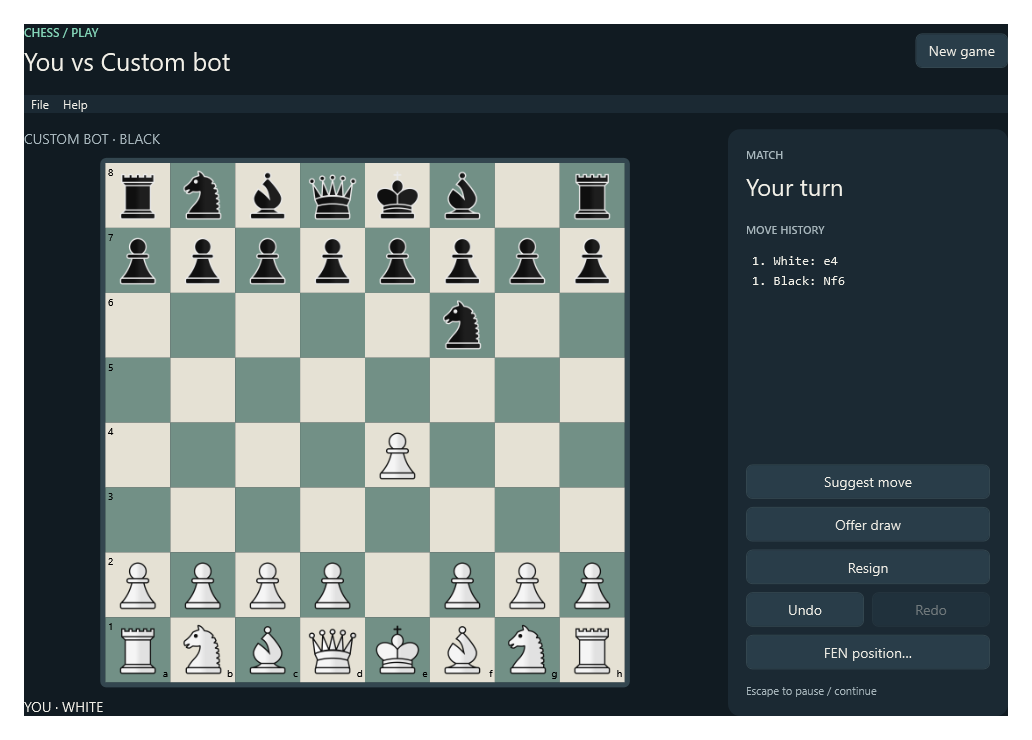
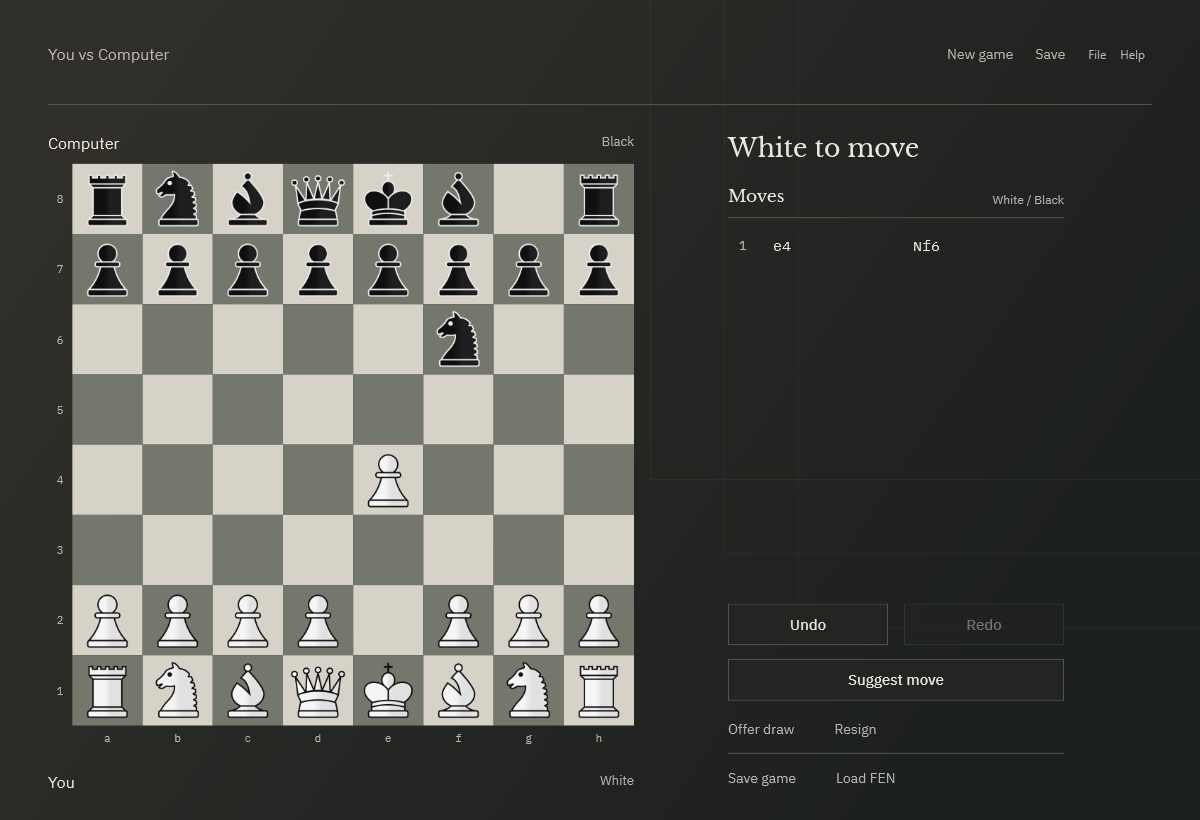
docs: document Tournament controls and update screenshots

diff --git a/docs/gameplay.md b/docs/gameplay.md
@@ -4,7 +4,7 @@
 
 ## Controls
 
-Choose **Play the bot** and a colour, or **Local two-player**, on the start screen.
+Choose **Computer** and a colour, or **Local two-player**, on the start screen.
 Bot mode automatically plays the opposite side and faces the board toward you.
 **Suggest move** recommends a move without applying it. **New game** returns to setup.
 
@@ -12,7 +12,7 @@ Bot mode automatically plays the opposite side and faces the board toward you.
 - Choose a queen, rook, bishop, or knight to complete promotion. Escape cannot cancel that choice.
 - Escape opens or closes the pause menu. A completed game stays on its result menu until rematch, exit, or undo.
 - **Undo** / **Ctrl+Z** takes back one action. **Redo** / **Ctrl+Y** / **Ctrl+Shift+Z** restores it. See [undo and redo](undo-redo.md) for result and history behavior.
-- The side panel shows whose turn it is, check status, and move history in SAN notation.
+- The side panel shows whose turn it is, check status, and a SAN scoresheet with White and Black columns for each full move.
 - **Resign** ends the game for the player whose turn it is. A bare opposing king cannot receive a win, so that case is a draw.
 - **Claim draw** appears when the current position qualifies for threefold repetition or the fifty-move rule.
 - To claim based on an intended move, check **Claim with next move**, then select that move, including a promotion choice if needed. A successful claim ends the game before the move is played. An invalid claim leaves the board unchanged; clear the checkbox to resume normal play.

diff --git a/docs/tournament-design.md b/docs/tournament-design.md
@@ -1,0 +1,24 @@
+# Tournament interface
+
+The Windows UI implements the approved [Figma C direction](https://www.figma.com/design/kZvgLU33gETM4Hn66bSyHx?node-id=4-1674).
+
+![Tournament setup](start-game.png)
+
+Setup pairs a plain opponent/colour form with the real starting board. The selected
+choice has a brass underline; the start action names the chosen side. Open saved
+game loads a complete save into that mode. A failed load leaves setup available.
+
+![Tournament game view](bot.png)
+
+Both screens use a warm-to-cool charcoal gradient and faint overlapping square outlines.
+The match header shows the matchup and navigation, with no CHESS wordmark. Board
+coordinates sit outside the squares and follow the selected orientation. Move history
+uses paired SAN columns, including positions that begin on Black's turn.
+
+The implementation keeps file/PGN tools in a compact File menu and makes draw/resume
+controls conditional. Actions scroll at smaller window sizes so history stays usable.
+Bot replies, suggestions, undo/redo, pause, and result menus retain their game behavior.
+
+Libre Baskerville, IBM Plex Sans, and IBM Plex Mono are embedded in the application.
+Their SIL Open Font License notices are included in `ChessUI/Assets/Fonts` and copied
+to published builds. The piece PNGs are the same source assets used in Figma.

diff --git a/docs/bot.md b/docs/bot.md
@@ -2,12 +2,13 @@
 
 ![Choose your mode and colour](start-game.png)
 
-Choose **Play the bot** on the start screen, select White or Black, and press
-**Start game**. The board faces your side. White moves first: if you choose Black,
+Choose **Computer** on the start screen, select White or Black, and press
+**Take White & play** or **Take Black & play**. The board faces your side. White moves first: if you choose Black,
 the bot opens automatically. After each of your moves, it searches and replies on
 its own. Human input is restricted to your turn. **Local two-player** keeps both
 sides under human control. **New game** returns to setup and discards the current
 session; save first if you want to keep it. Rematch keeps your mode and colour.
+**Open saved game** on setup resumes a complete save in the chosen mode.
 
 ![Automatic bot play and the match panel](bot.png)
 

diff --git a/docs/undo-redo.md b/docs/undo-redo.md
@@ -7,7 +7,7 @@ Use **Undo** or **Ctrl+Z** to take back the last action. Use **Redo**, **Ctrl+Y*
 and promotion. A resignation or draw claim is a separate action: undo reopens the same
 position before taking back any earlier move.
 
-In **Play the bot**, the UI groups your move and its reply into a round. Undo during
+In a **Computer** game, the UI groups your move and its reply into a round. Undo during
 thinking cancels the pending reply before taking back your move. Redo restores a round.
 If navigation leaves the bot to move, use **Resume bot** when ready; it will not replace
 your redo branch automatically. The `GameState` API continues to navigate one action.

diff --git a/README.md b/README.md
@@ -28,6 +28,7 @@ Choose your mode and colour on the start screen. The bot replies automatically;
 ## Features
 
 - Board rendering and legal-move highlights
+- [Tournament interface](docs/tournament-design.md), based on the approved Figma C design
 - [Custom chess bot](docs/bot.md): automatic opponent mode, colour selection, and move suggestions
 - Turn tracking and king-safety validation
 - Castling, en passant, and all four promotion choices
